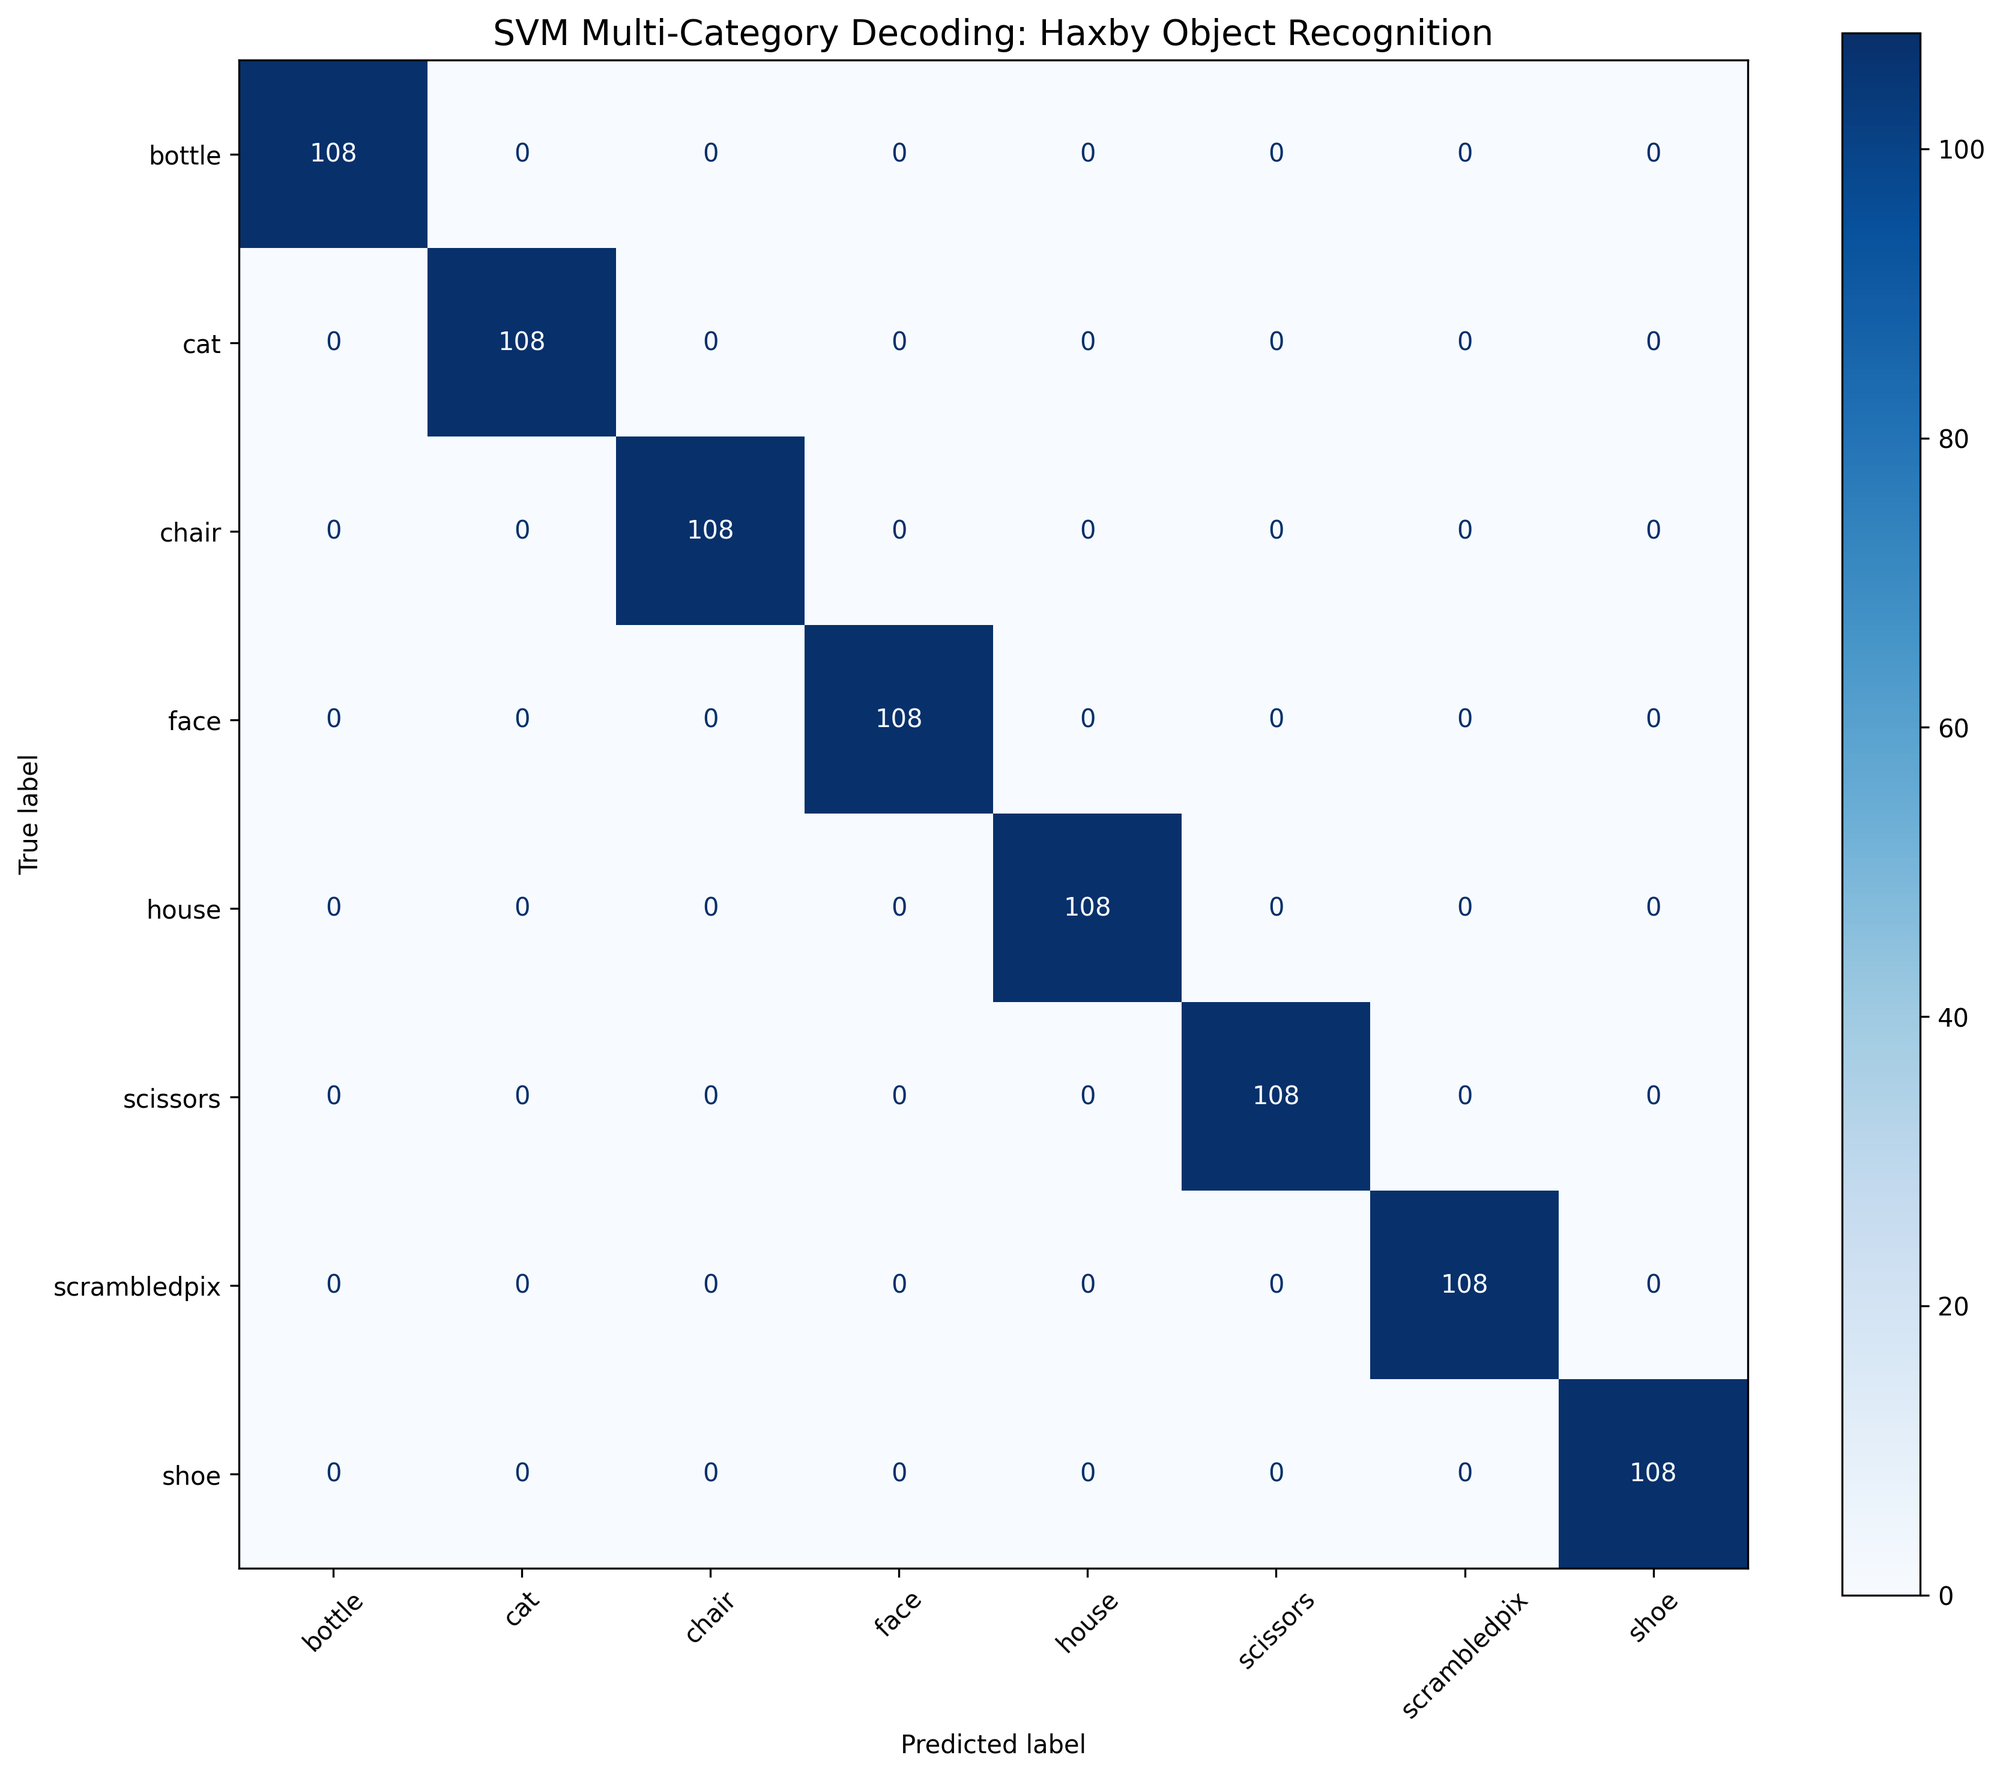
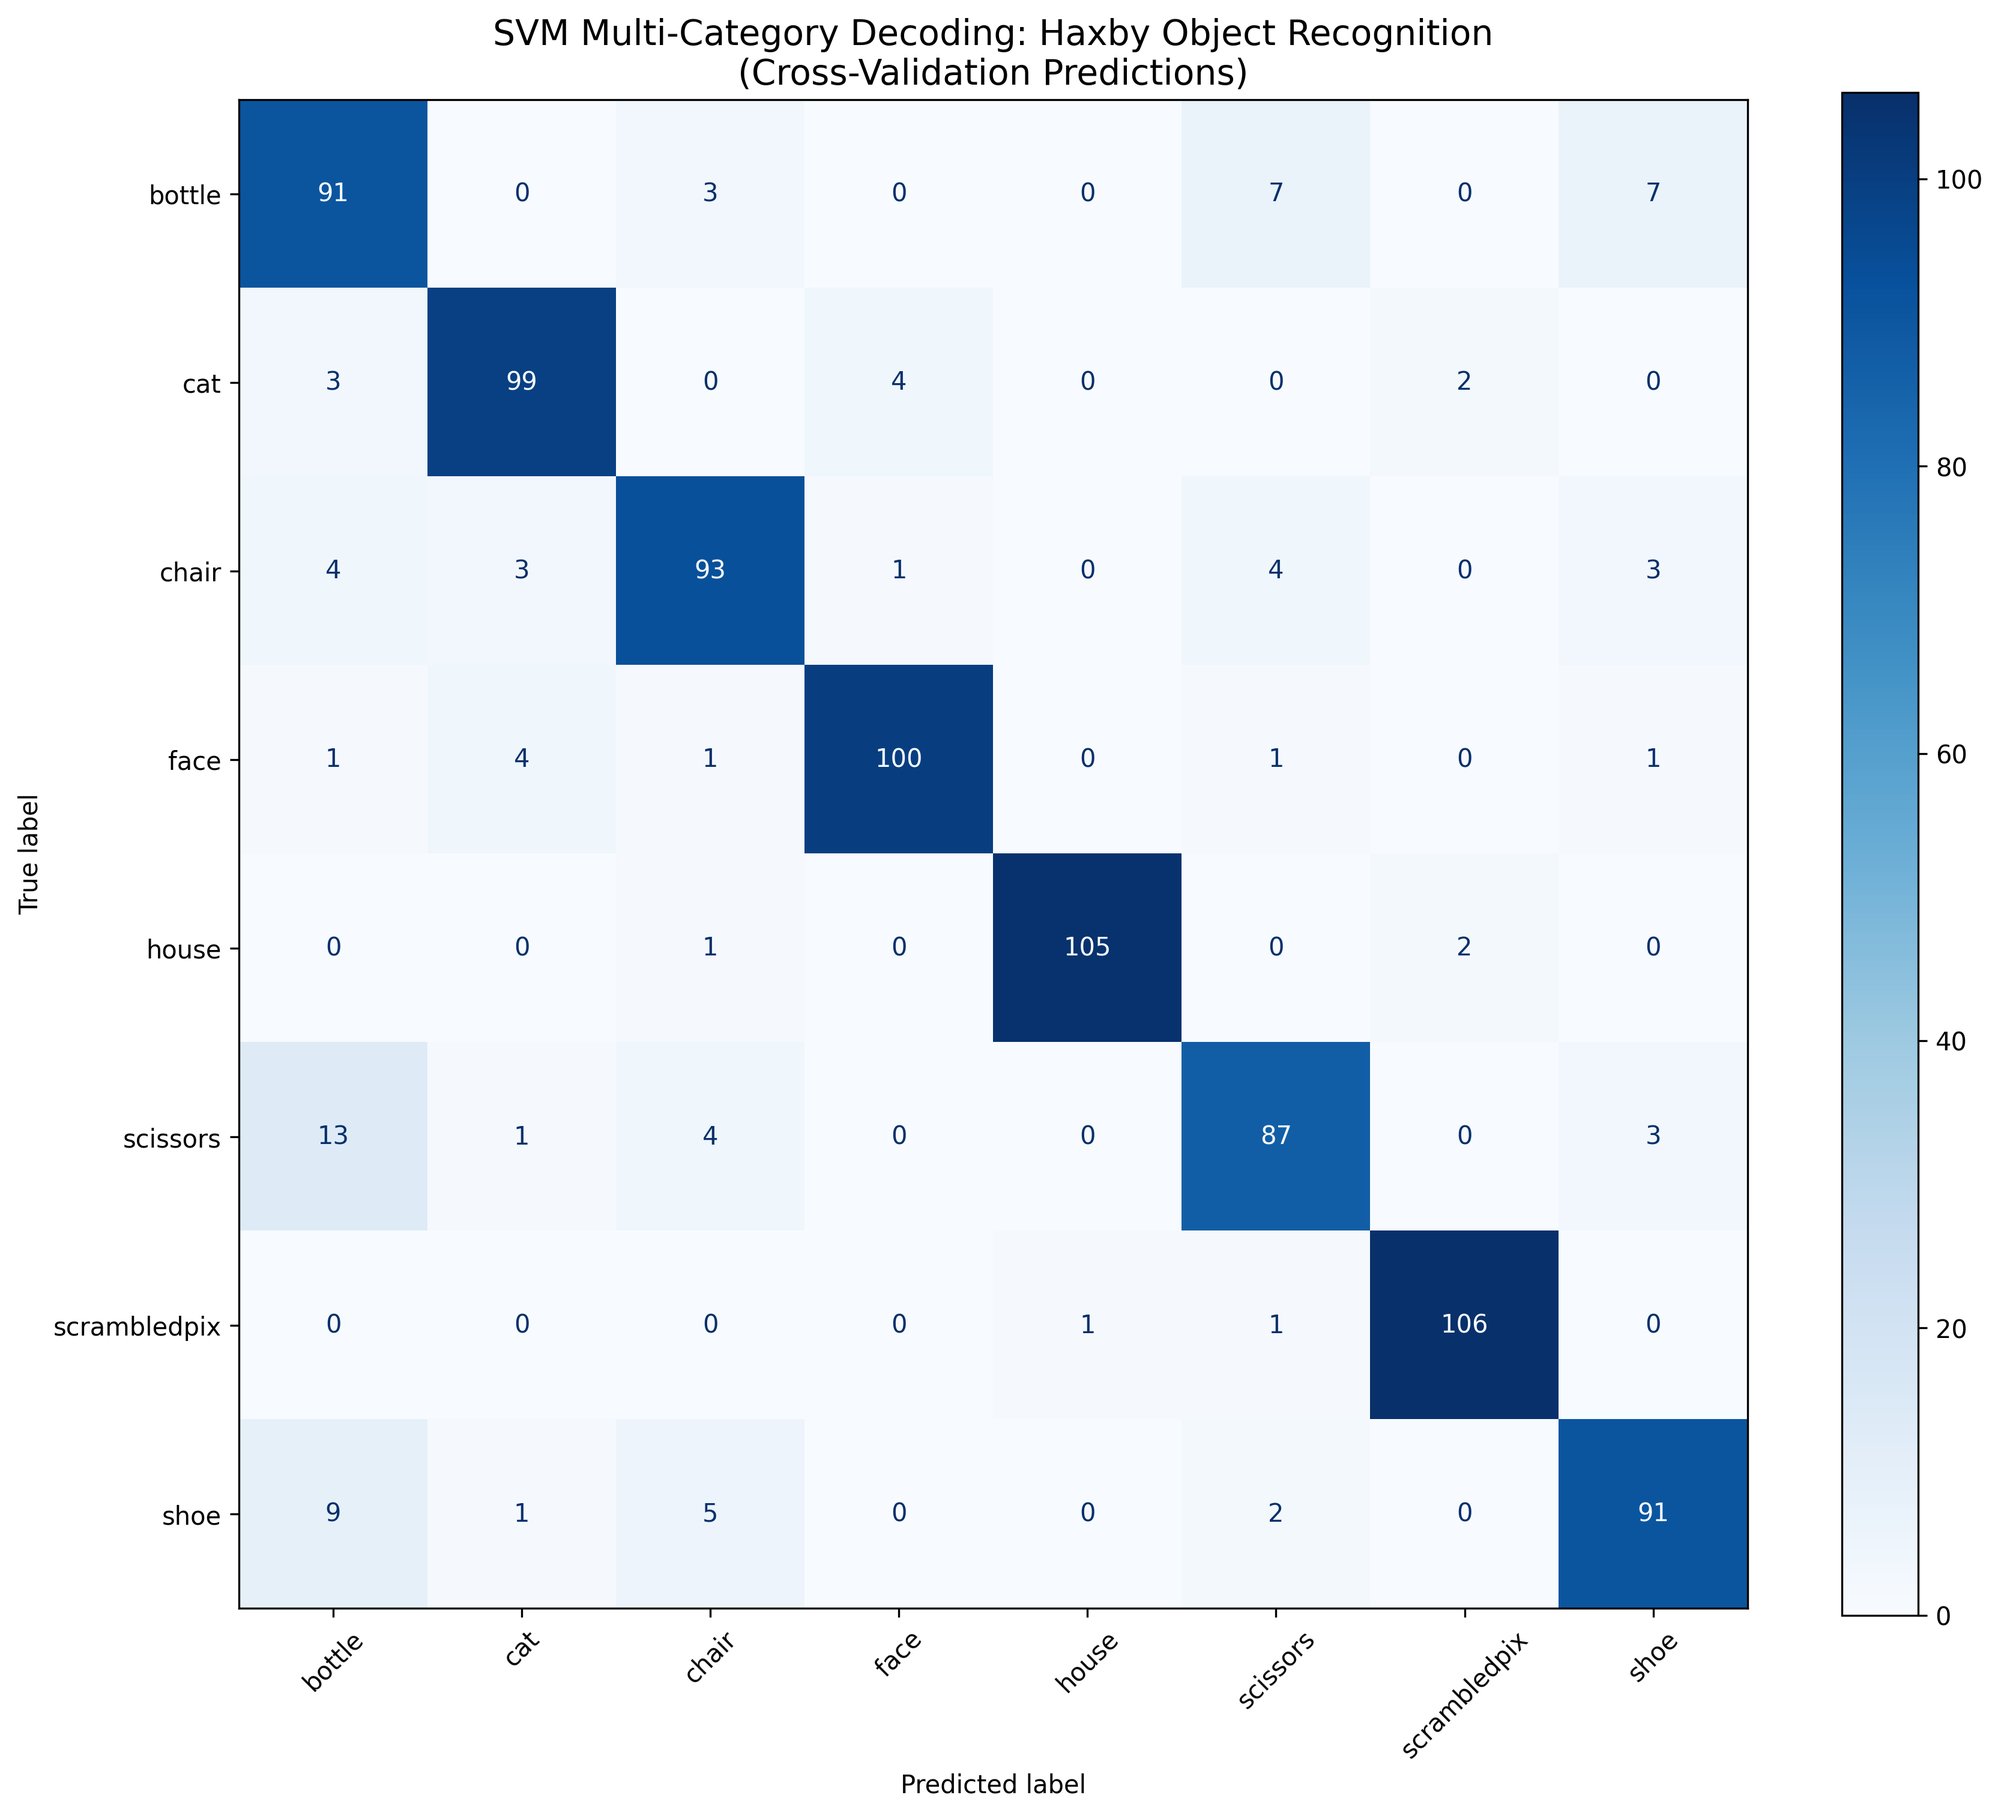
Fix ML-001 confusion matrix to use cross-validation predictions instead of training data

diff --git a/Machine_Learning/ML-001-Train-SVM-classifier-to-decode/evidence/README.md b/Machine_Learning/ML-001-Train-SVM-classifier-to-decode/evidence/README.md
@@ -1,0 +1,23 @@
+# ML-001 Evidence: Train SVM classifier to decode object categories from Haxby VT cortex
+
+## Task Description
+Use support vector machine to learn patterns that distinguish faces, houses, cats, etc from brain activity
+
+## Dataset
+Haxby dataset
+
+## Data Key
+nilearn.datasets.fetch_haxby
+
+## Evidence Files
+
+1. **cv_scores.csv**
+2. **confusion_matrix.png**
+
+## Analysis Summary
+
+See `analysis_summary.json` for detailed results.
+
+## Timestamp
+
+Analysis run: $(date -Iseconds)
